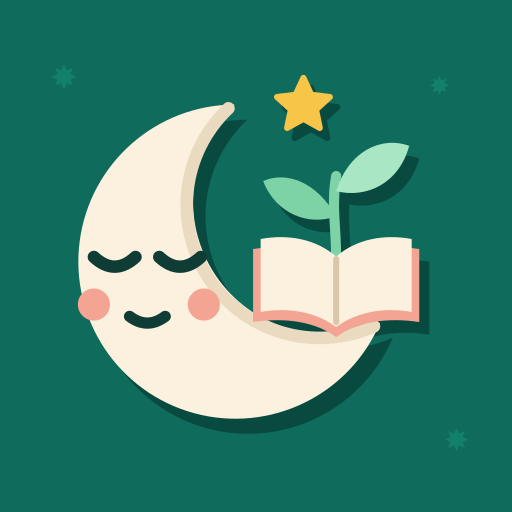
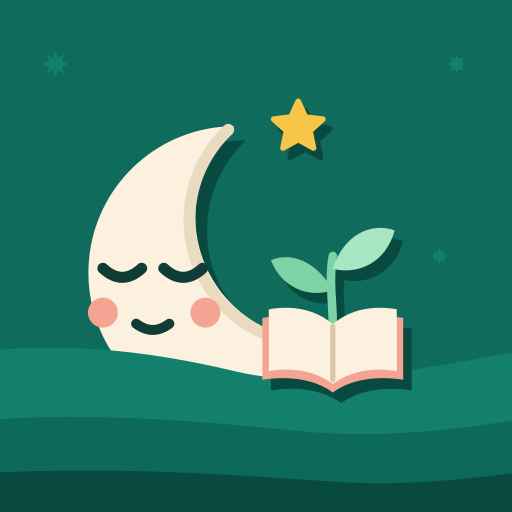
feat(brand): خالد اختار C «الطبقات» — نور طالع ورا تلال ورق

Changed region(s): [[0.125, 0.1875, 0.8438, 0.8438], [0.0, 0.9062, 1.0, 1.0], [0.5312, 0.1562, 0.6562, 0.3125]]

diff --git a/docs/brand/tools/brand_build.py b/docs/brand/tools/brand_build.py
@@ -73,7 +73,7 @@ DIRECTIONS = {
     'b': ('icon_b_noor.svg', 'B «نور»', 'من غير حلقة — العناصر أكبر'),
     'c': ('icon_c_hills.svg', 'C «الطبقات»', 'نور طالع ورا تلال ورقية'),
 }
-RECOMMENDED = 'b'
+RECOMMENDED = 'c'  # خالد اختار C «الطبقات» 2026-10-15
 
 PALETTE = dict(E='#0F6B5C', E2='#12806D', E3='#0D6A5A', SH='#094A40', DECO='#13806C', IV='#FBF1DE',
                IV2='#EADBC0', IV3='#D9C7A7', CORAL='#F4A492', GOLD='#F7C548', G1='#7ED3A6', G2='#A8E6C4',
